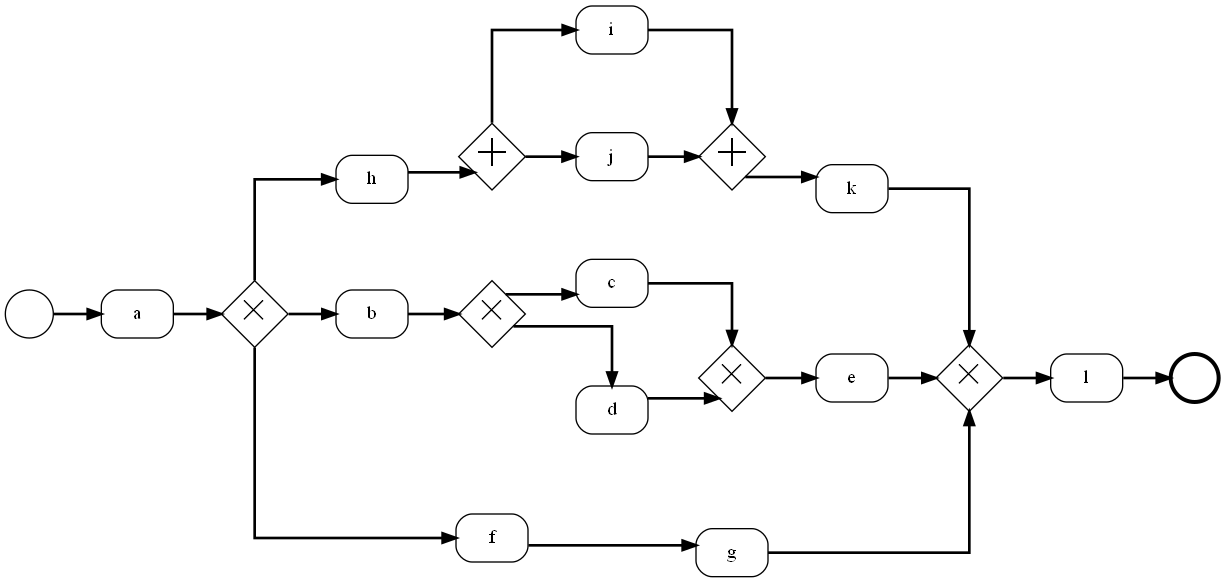
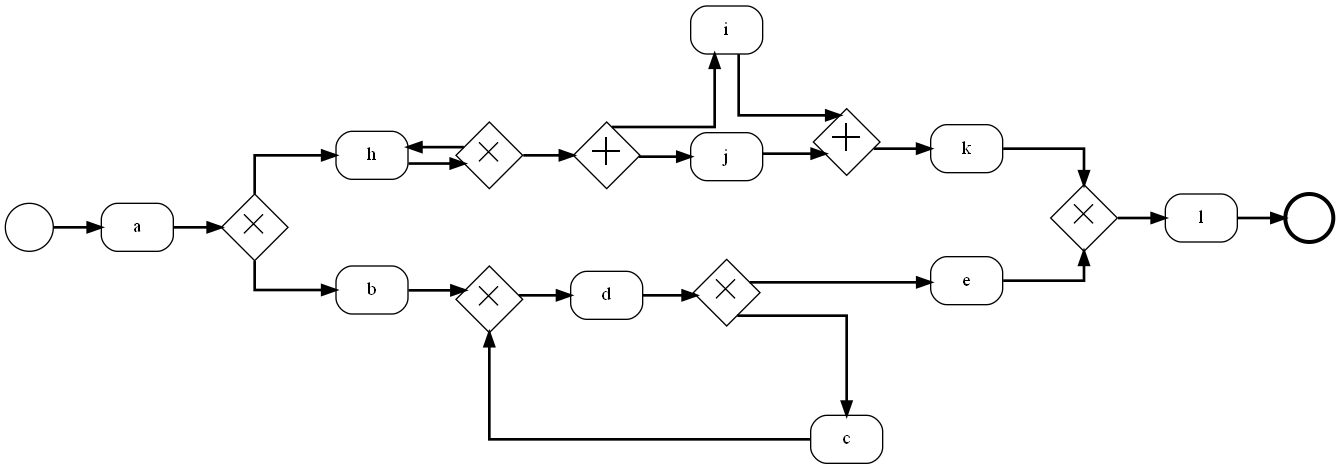
Implement filters for models

diff --git a/templates/upload.html b/templates/upload.html
@@ -31,7 +31,7 @@
 </style>
 
 <title>Modelowanie biznesowe - lab 3 i 4</title>
-<h2>Select a model file to upload</h2>
+<h2>BPMN Model Generator</h2>
 <p>
 	{% with messages = get_flashed_messages() %}
 	  {% if messages %}
@@ -45,11 +45,18 @@
 </p>
 {% if filename %}
     <form method="post" action="/filtered" enctype="multipart/form-data">
-        <div class="rangeslider">
-          <input type="range" min="0" max="10" value="0"
-                          class="myslider" id="sliderRange" name="filter">
+        <div class="lowerslider">
+          <p>Succession count lowerbound (0 means it is inactive):</p>
+          <input type="range" min="0" max="{{ maxSlider }}" value="{{ sliderValue }}"
+                          class="myslider" id="sliderLower" name="lowerFilter">
+          <p>Value: <span id="slider1"></span></p>
+        </div>
+        <div class="upperslider">
+          <p>Succession count upperbound (0 means it is inactive):</p>
+          <input type="range" min="0" max="{{ maxSlider }}" value="{{ sliderValue2 }}"
+                          class="myslider" id="sliderUpper" name="upperFilter">
+          <p>Value: <span id="slider2"></span></p>
           <input type="submit" value="Filter">
-          <p>Value: <span id="slider"></span></p>
         </div>
     </form>
 	<div>
@@ -57,12 +64,22 @@
 	</div>
 	
 	<script>
-    var rangeslider = document.getElementById("sliderRange");
-    var output = document.getElementById("slider");
-    output.innerHTML = rangeslider.value;
+    var rangeslider1 = document.getElementById("sliderLower");
+    var output1 = document.getElementById("slider1");
+    output1.innerHTML = rangeslider1.value;
       
-    rangeslider.oninput = function() {
-      output.innerHTML = this.value;
+    rangeslider1.oninput = function() {
+      output1.innerHTML = this.value;
+    }
+    </script>
+    
+    <script>
+    var rangeslider2 = document.getElementById("sliderUpper");
+    var output2 = document.getElementById("slider2");
+    output2.innerHTML = rangeslider2.value;
+      
+    rangeslider2.oninput = function() {
+      output2.innerHTML = this.value;
     }
     </script>
 	

diff --git a/myGraph.py b/myGraph.py
@@ -69,10 +69,14 @@ class MyGraph(pgv.AGraph):
     def get_direct_succession(self, trace, events):
         direct_succession = defaultdict(set)
         for case in trace:
+            if (case == None):
+                continue
             for index, event in enumerate(case):
                 if (index > 0):
                     direct_succession[case[index-1]].add(event)
         for event in events:
+            if (event == None):
+                continue
             if event not in direct_succession.keys():
                 direct_succession[event] = set()
         return dict(direct_succession)
@@ -93,11 +97,36 @@ class MyGraph(pgv.AGraph):
             removed = True
             for index, event in enumerate(case):
                 if (index > 0):
-                    if (direct_succession_count[case[index-1] + event] > lowerbound):
+                    if (direct_succession_count[case[index-1] + event] >= lowerbound):
                         removed = False
             if (removed):
                 trace[i] = None
         return trace
+    
+    def filter_trace_upperbound(self, trace, direct_succession_count, upperbound):
+        for i, case in enumerate(trace):
+            if (case == None):
+                continue
+            removed = False
+            for index, event in enumerate(case):
+                if (index > 0):
+                    if (direct_succession_count[case[index-1] + event] > upperbound):
+                        removed = True
+            if (removed):
+                trace[i] = None
+        return trace
+    
+    def remove_filtered_events(self, events, trace):
+        for i, event in enumerate(events):
+            exists = False
+            for case in trace:
+                if (case == None):
+                    continue
+                for evnt in case:
+                    if (evnt == event):
+                        exists = True
+            if not exists:
+                events[i] = None
 
     def add_edge(self, source, target):
         super(MyGraph, self).add_edge(source, target)
@@ -231,13 +260,15 @@ class MyGraph(pgv.AGraph):
     def get_start_set_events_from_trace(self, trace):
         start_set_events = set()
         for t in trace:
-            start_set_events.add(t[0])
+            if t != None:
+                start_set_events.add(t[0])
         return start_set_events
 
     def get_end_set_events_from_trace(self, trace):
         end_set_events = set()
         for t in trace:
-            end_set_events.add(t[len(t)-1])
+            if t != None:
+                end_set_events.add(t[len(t)-1])
         return end_set_events
 
     def get_end_set_events(self, direct_succession, parallel_events):
@@ -310,23 +341,31 @@ class MyGraph(pgv.AGraph):
 
       return
 
-    def create_and_display_graph(self, model_name, filename="", succession=None):
+    def create_and_display_graph(self, model_name, filename="", succession=None, lowerbound=0, upperbound=float('inf')):
         if succession == None and filename != "" and filename.endswith(".csv"):
             trace = self.get_trace_from_csv(filename)
             events = self.get_events_from_csv(filename)
+            direct_succession_count = self.get_direct_succession_count(trace)
+            self.filter_trace_lowerbound(trace, direct_succession_count, lowerbound)
+            self.filter_trace_upperbound(trace, direct_succession_count, upperbound)
+            self.remove_filtered_events(events, trace)
             direct_succession = self.get_direct_succession(trace, events)
         elif succession == None and filename != "" and filename.endswith(".xes"):
             trace = self.get_trace_from_xes(filename)
             events = self.get_events_from_xes(filename)
             direct_succession = self.get_direct_succession(trace, events)
-        elif succession != None and filename == "":
-            direct_succession = succession
+# =============================================================================
+#         elif succession != None and filename == "":
+#             direct_succession = succession
+# =============================================================================
         else:
             print("Provide direct succession or csv/xes file!")
-            return
-
-        print(trace)
-        print(events)
+            return 1
+        
+        if not direct_succession:
+            print("Empty model")
+            self.draw(model_name, prog='dot')
+            return max(direct_succession_count.values())+1
 
         # getting start set events
         start_set_events = self.get_start_set_events(direct_succession)
@@ -353,7 +392,7 @@ class MyGraph(pgv.AGraph):
         edges = self.get_edges(direct_succession, parallel_events, causality, inv_causality, end_set_events)
 
         # print relations
-        self.print_relations(direct_succession, start_set_events, causality, inv_causality, parallel_events, end_set_events, edges)
+        #self.print_relations(direct_succession, start_set_events, causality, inv_causality, parallel_events, end_set_events, edges)
 
         # adding start event
         self.add_event("start")
@@ -467,3 +506,5 @@ class MyGraph(pgv.AGraph):
 
         self.draw(model_name, prog='dot')
         display(Image(model_name))
+        
+        return max(direct_succession_count.values())+1

diff --git a/app.py b/app.py
@@ -43,21 +43,30 @@ def upload_image():
         G = myGraph.MyGraph()
         model_filename = os.path.join('static', filename)
         image_filename = os.path.join('static', "simple_process_model.png")
-        G.create_and_display_graph(image_filename, filename=model_filename)
+        maxSlider = G.create_and_display_graph(image_filename, filename=model_filename)
         
-        return render_template('upload.html', filename=image_filename)
+        return render_template('upload.html', filename=image_filename, sliderValue=0, sliderValue2=0, maxSlider=maxSlider)
     else:
         flash('Allowed image types are -> csv, xes')
         return redirect(request.url)
         
 @app.route('/filtered', methods=['POST'])
 def filter_model():
+    lower_filter = int(request.form["lowerFilter"])
+    upper_filter = int(request.form["upperFilter"])
+    
+    if (upper_filter == 0):
+        upper_filter = float('inf')
+    
     G = myGraph.MyGraph()
     model_filename = os.path.join('static', "simple_process_model." + FILE_TYPE)
     image_filename = os.path.join('static', "simple_process_model.png")
-    G.create_and_display_graph(image_filename, filename=model_filename)
+    maxSlider = G.create_and_display_graph(image_filename, filename=model_filename, lowerbound=lower_filter, upperbound=upper_filter)
     
-    return render_template('upload.html', filename=image_filename)
+    if (upper_filter == float('inf')):
+        upper_filter = 0
+    
+    return render_template('upload.html', filename=image_filename, sliderValue=lower_filter, sliderValue2=upper_filter, maxSlider=maxSlider)
     
 
 @app.after_request
